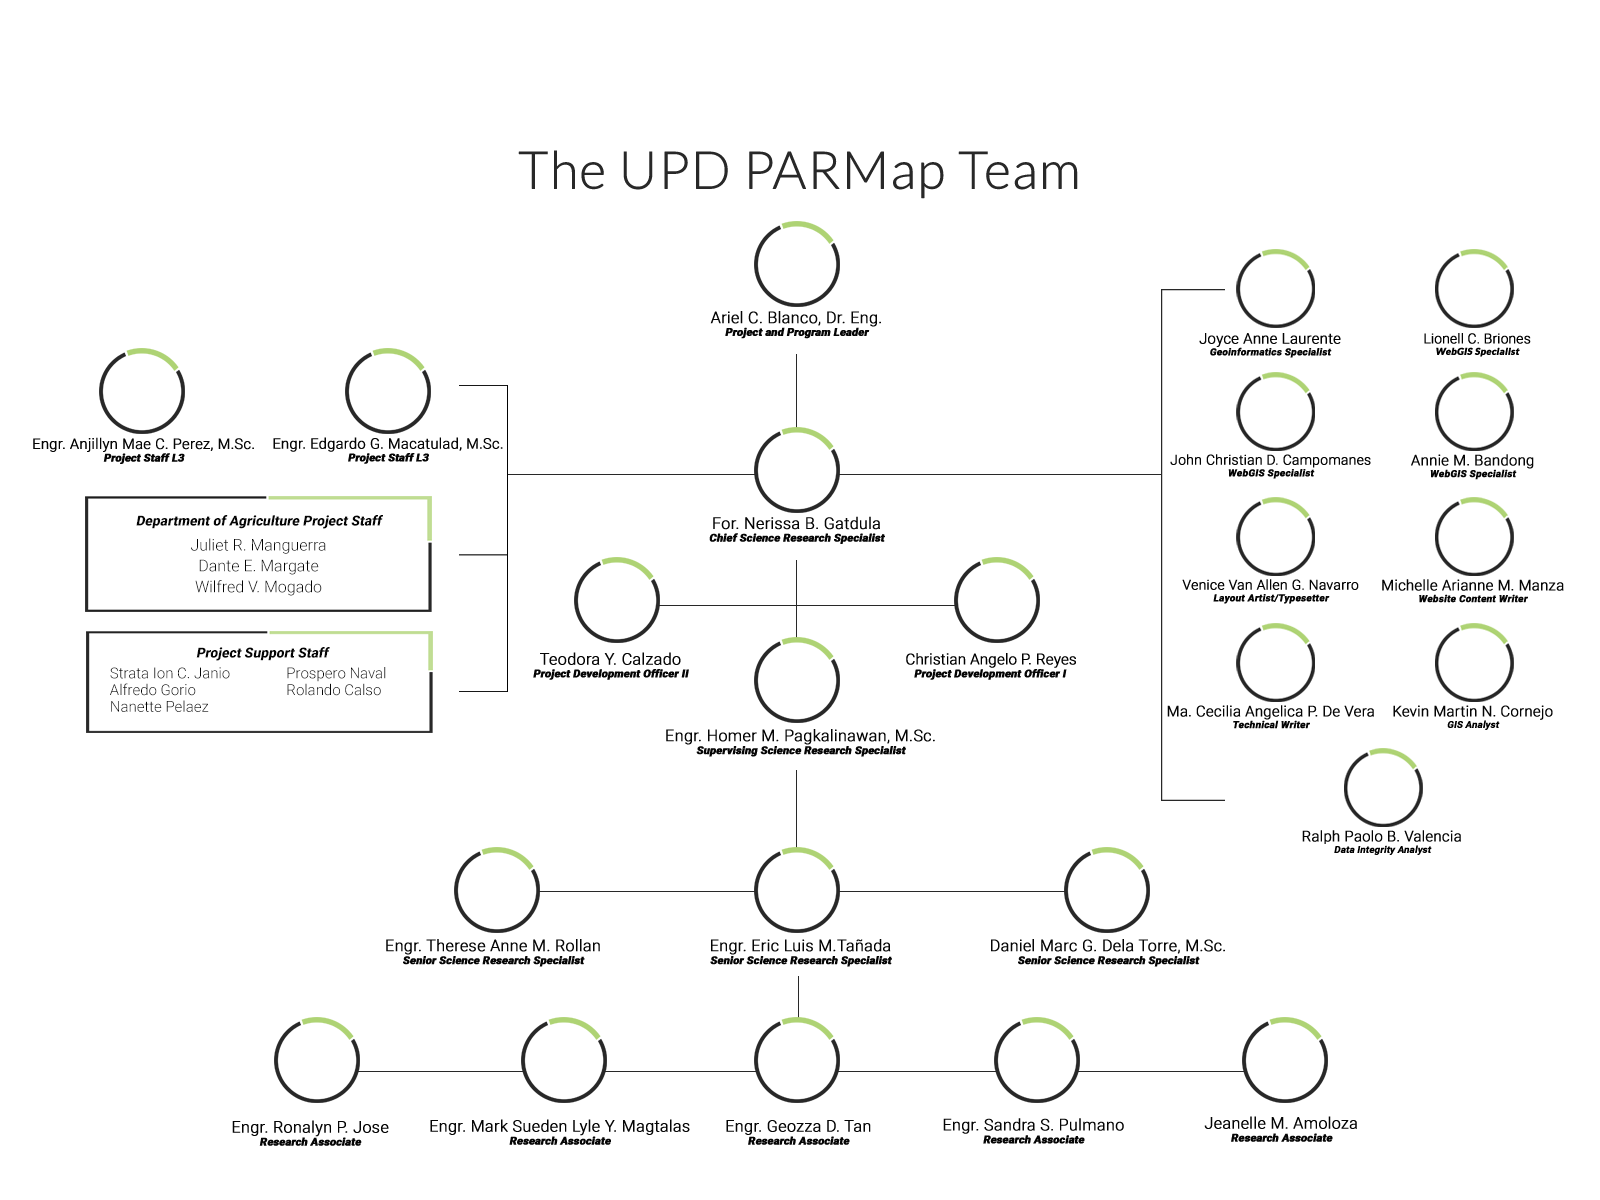
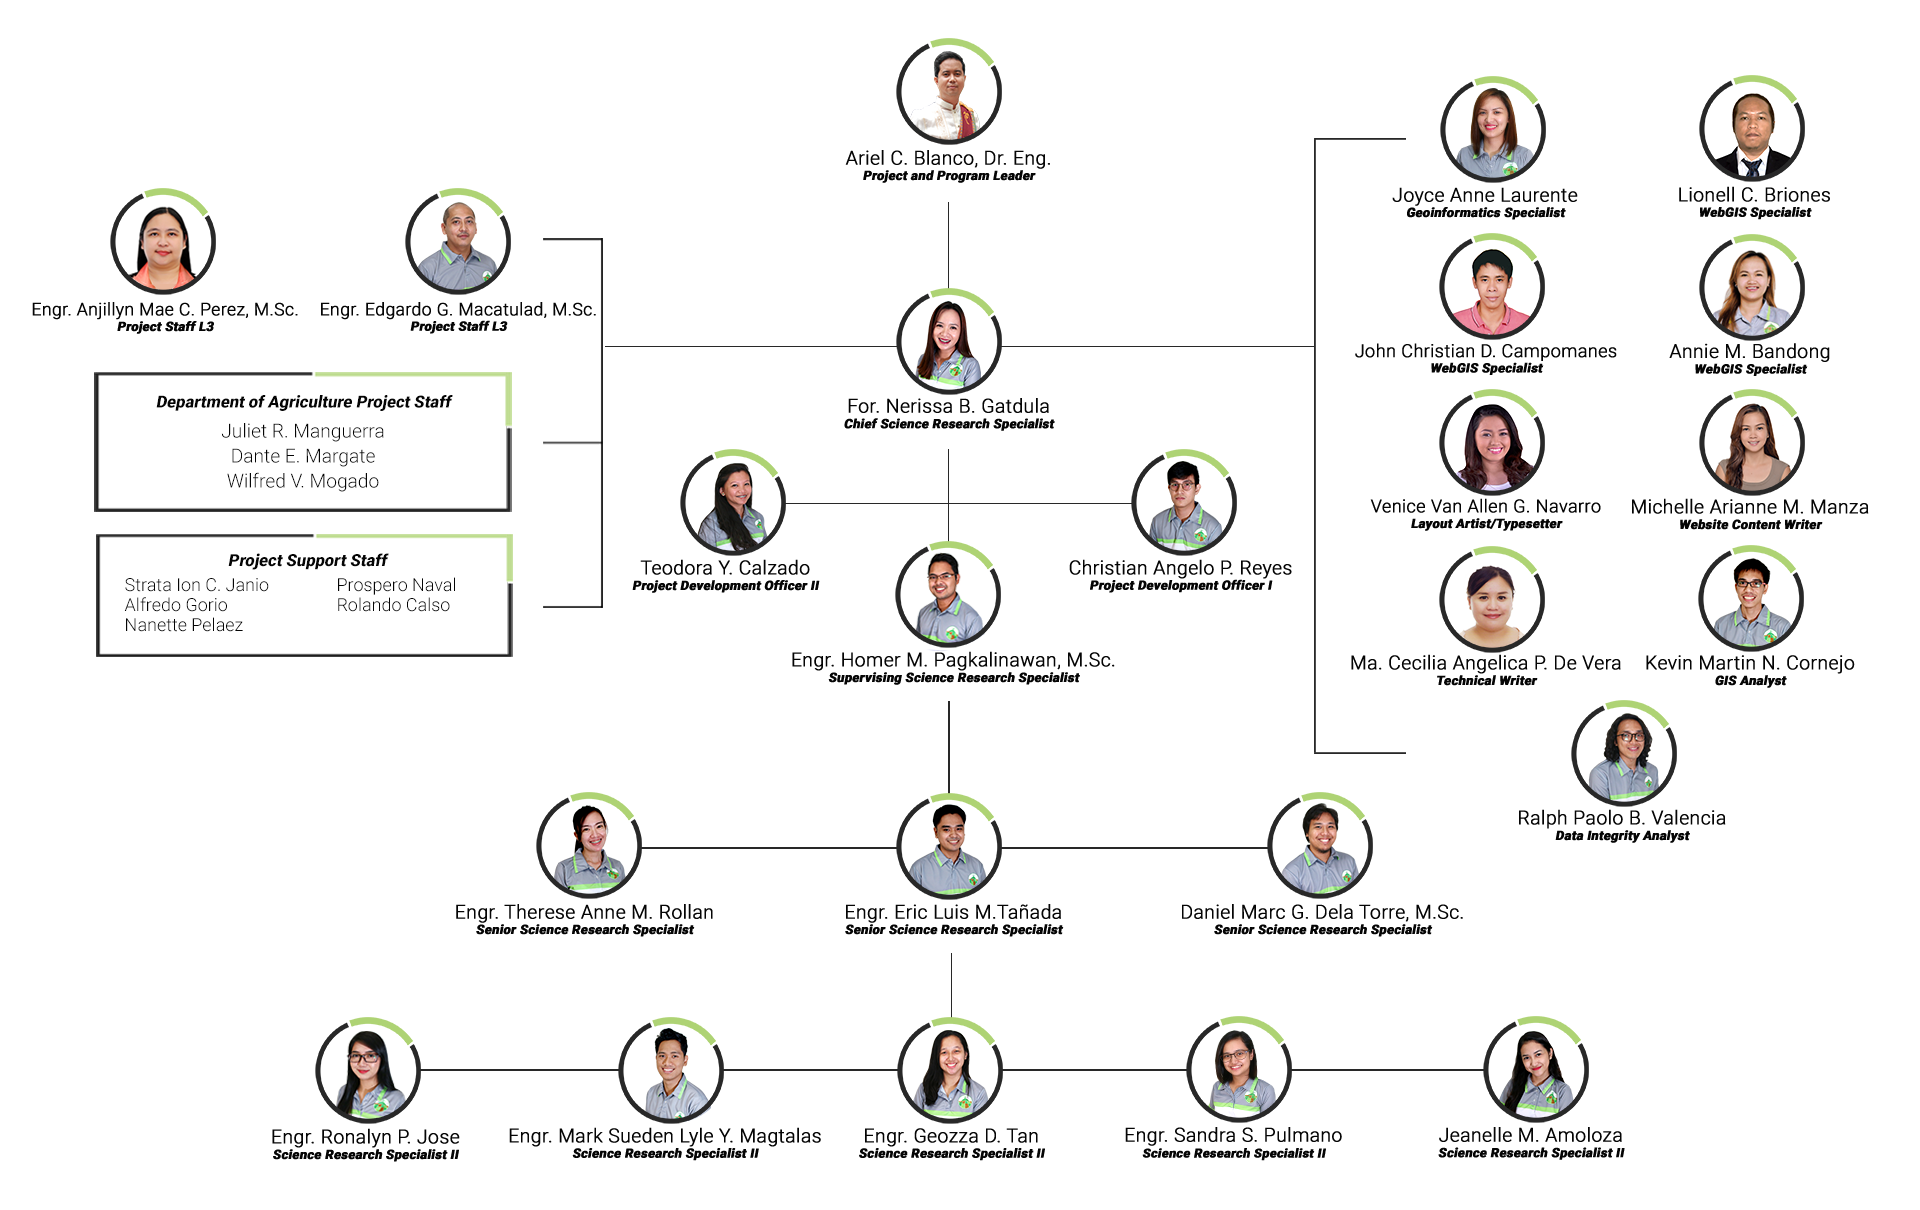
updated orgchart and other people images

diff --git a/geonode/templates/about.html b/geonode/templates/about.html
@@ -18,10 +18,11 @@
 
 <div class = "section aboutContent">
 	<div class = "container">
-		<div class = "aboutLogo">
-			<img src = "{{ STATIC_URL }}/parmap/img/logos/parmap.png">
-		</div>
-    <br />
+    <div class = "aboutWrapper" style=" margin-top: -165px;">
+      <div class = "aboutTitle">
+        <img src = "{{ STATIC_URL }}/parmap/img/logos/parmap.png" width="150px">
+      </div>
+    </div>
 		<p>The Phil-LiDAR 2.A.1 Agricultural Resources Extraction from LiDAR Surveys or <b>PARMap</b> provides an updated and detailed inventory of agricultural resources in the Philippines by using Light Detection and Ranging (LiDAR) and other geospatial technologies.</p>
 
 		<div class="indented">
@@ -44,17 +45,31 @@
 	</div>
 </div>
 
+<div class = "section firstChild">
+	<div class = "container">
+		<div class = "aboutWrapper">
+			<div class = "aboutTitle">The UPD PARMap Team</div>
+		</div>
+	</div>
+</div>
+
 <div class = "section">
 	<div class = "container">
 		<div class = "teamsWrapper">
 			<img src = "{{ STATIC_URL }}/parmap/img/page-about/orgchart.png" style = "width: 100%;">
-
 		</div>
 	</div>
-
 </div>
 
-<div class = "section agencySection">
+<div class = "section firstChild" style=" margin-top: 20px">
+	<div class = "container">
+		<div class = "aboutWrapper">
+			<div class = "aboutTitle">Other People Involved in the Project</div>
+		</div>
+	</div>
+</div>
+
+<div class = "section agencySection" style=" margin-top: -50px">
 	<div class = "container teamsWrapper">
 		<img src = "{{ STATIC_URL }}/parmap/img/page-about/otherpeople.png" style = "width: 100%;">
 	</div>
@@ -66,8 +81,8 @@
 			<div class = "partnersTitle">Partners SUC & HEIs</div>
 		</div>
 	</div>
-
 </div>
+
 <div class = "section">
 	<div class = "container">
 		<div class = "partner1">
